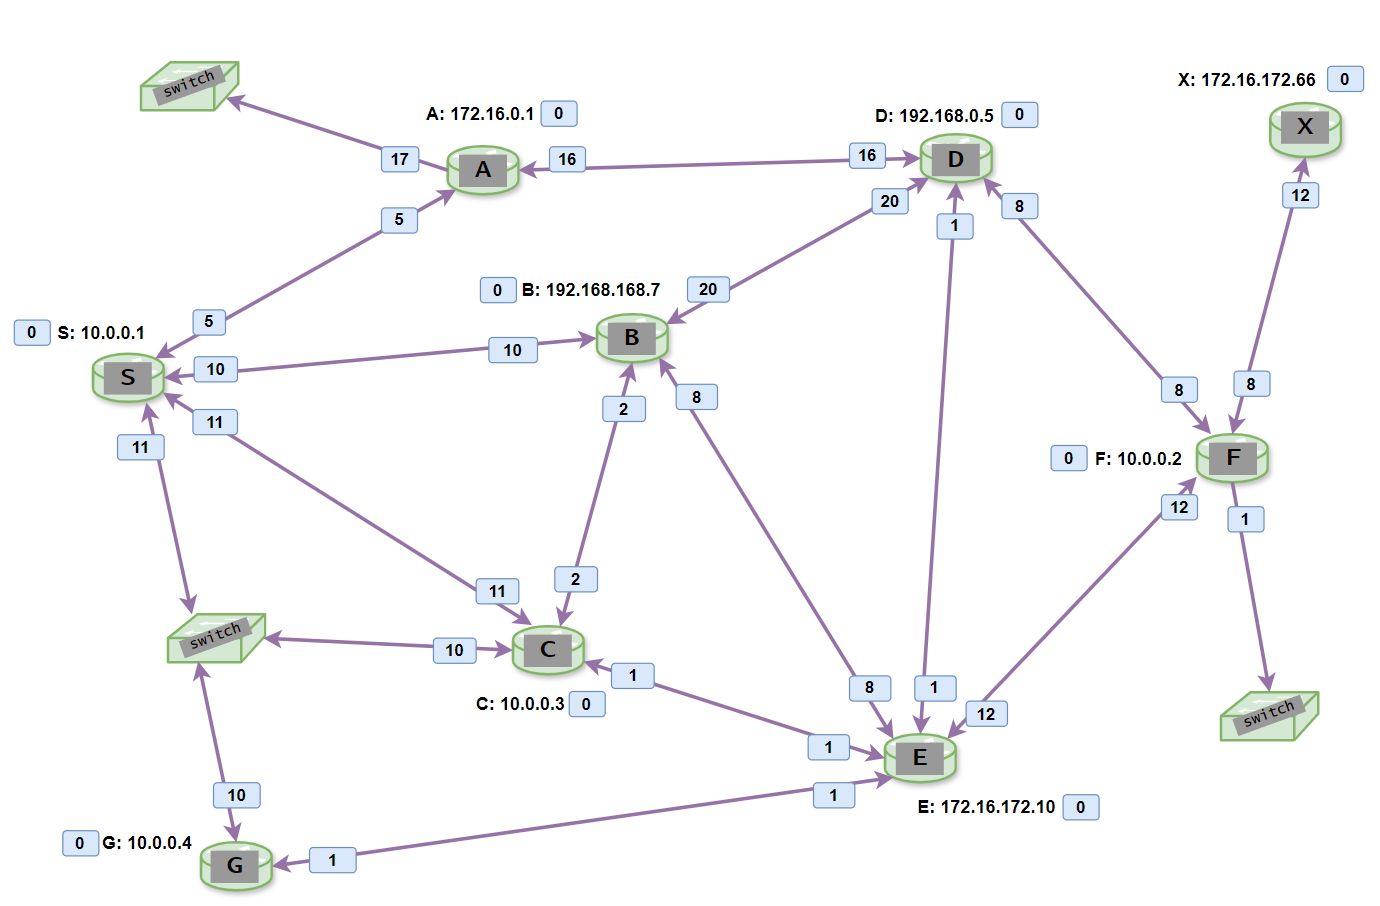
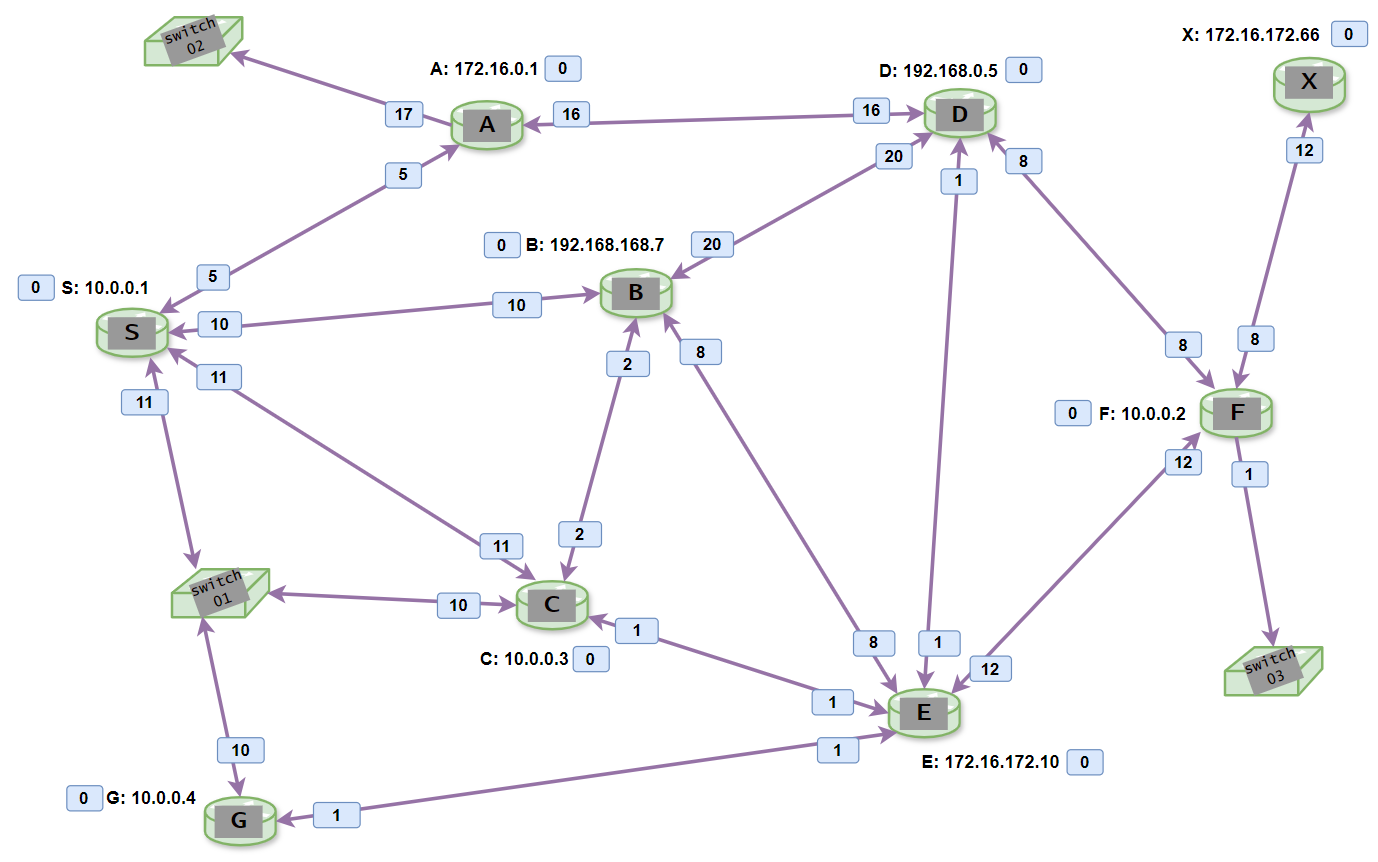
doc upgrade

diff --git a/readme.md b/readme.md
@@ -88,7 +88,7 @@
 
 Кумулятивная значит суммарная, т.е. сумма всех участков пути от source до destination. Суммарная стоимость 0 может быть только у корневого узла, и это важное исходное значение, без которого алгоритм не начнёт правильно работать. Каждый узел рассматривает себя в качестве корневого, и каждый рассчитывает свою копию дерева кратчайших путей до всех остальных узлов сети.
 
-Локальная стоимость ip-сегмента = локальной стоимости интерфейса, которому назначен этот сегмент.
+Локальная стоимость ip-сегмента автоматически = локальной стоимости интерфейса, которому назначен этот сегмент.
 
 Рассчитываются пути именно до узлов, а не до ip-сегментов. Получив стоимость пути до узла, мы получаем и кумулятивную стоимость любого ip-сегмента, подключенного к узлу :
 
@@ -120,6 +120,23 @@
 
 Первые две строки описывают ненаправленное ребро, т.е. нетупиковый сегмент сети, между узлами S и A (либо A и S, что одно и то же). Поскольку это полноценные маршрутизаторы, то здесь **два** линка смежности для одного сегмента.
 
-Третья строка описывает тупиковый сегмент, т.к. за коммутатором switch02 нет других маршрутизаторов. Именно поэтому поля neighIP и neighID равны 0.0.0.0, что тоже важный момент, на который стоит обратить внимание. С помощью таких значений мы указываем реализации алгоритма не искать узлы за данным интерфейсом.
+Третья строка описывает тупиковый сегмент, т.к. за коммутатором switch02 нет других маршрутизаторов. Именно поэтому поля neighIP и neighID равны 0.0.0.0, что тоже важный момент, на который стоит обратить внимание. С помощью таких значений мы указываем коду не искать узлы за данным интерфейсом.
 
-Последние две строки описывают лупбеки. Как и тупиковые сети, они не участвуют в рассчётах. Лупбек это локальный петлевой интерфейс, как бы смотрящий обратно на узел. Маска необязательно должна быть /32, но вот поля localIP, neighIP, neighID обязательно должны быть равны NodeID.
+Последние две строки описывают лупбеки. Как и тупиковые сети, они не участвуют в рассчётах. Лупбек это локальный петлевой интерфейс, как бы смотрящий обратно на узел. Маска не всегда /32, но вот поля localIP, neighIP, neighID обязательно должны быть равны NodeID.
+
+Теперь рассмотрим другой интересный участок :
+![djk_ipv4 diagram05](diagram05.png)
+
+Коммутаторы L2-уровня не являются участниками ip-сетей и в алгоритме кратчайших путей не участвуют. Они являются мостами для организации взаимодействия подключенных маршрутизаторов, позволяя экономить физические порты роутеров и уменьшать количество настроек.
+
+Через коммутатор switch01 три маршрутизатора образуют смежность друг с другом. Виртуально организуются три ненаправленных ребра :
+
+![djk_ipv4 diagram06](diagram06.png)
+
+Но у нас был ещё один линк не через свитч, вернём его сюда. Вот что получилось  :
+
+![djk_ipv4 diagram07](diagram07.png)
+
+Верхние два параллельных ненаправленных ребра в реальных сетях используются для балансировки нагрузки. Их могут агрегатировать в один интерфейс, либо оставить разделёнными, тогда алгоритм Дейкстры обнаружит два параллельных пути от S до C с одинаковой стоимостью 11. В обратную сторону от C до S стоимости окажутся разными (10 vs 11), и будет выбран только один линк с стоимостью 10. Вообще стоит сказать, что изначально алгоритм не работает с ECMP. Небольшие доработки кода позволили обучить его и этому.
+
+
